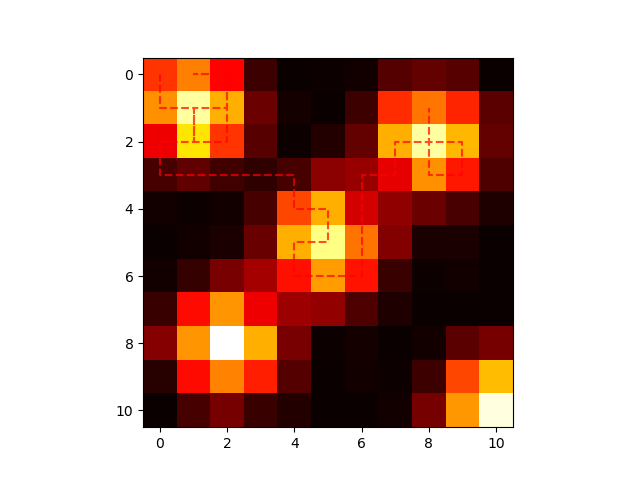
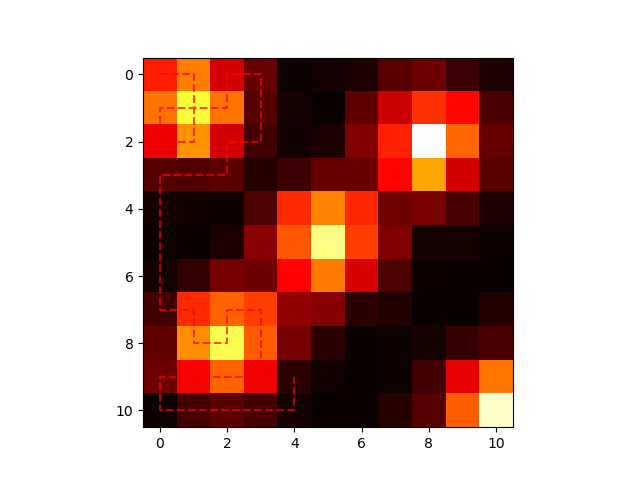
working multi-agent receding horizon vulcan pushed. need to work on making it faster

diff --git a/src/rh_ma_vulcan.py b/src/rh_ma_vulcan.py
@@ -95,7 +95,7 @@ class MultiAgentVulcan(object):
     def planner(self):
         while self.timer < self.mission_duration:
             print("Time = ", self.timer)
-            agent_actions = []
+            agent_actions = {}
             # Collect agents within communication range
             agent_bubbles = self.within_range_agents()
             # Command each agent to execute their adaptive search algorithm for one step
@@ -141,7 +141,7 @@ class MultiAgentVulcan(object):
                         deepcopy(agent.map),
                     )
 
-                agent_actions.append(best_action)
+                agent_actions[agent.id] = best_action
 
             # Once we have extracted the best actions for each agent, we execute them
             for agent in self.agents:
@@ -203,6 +203,8 @@ class MultiAgentVulcan(object):
             node.h = np.float64(0.0)
         else:
 
+            # TODO: Do we need to take into account the current observations of the agents?
+            # i.e the random variable corresponding to current timestep
             recursive_map_object = deepcopy(
                 agent_bubbles[0].map
             )  # Take any agent's map
@@ -283,9 +285,7 @@ class MultiAgentVulcan(object):
                     ),  # TODO: Should we be using theta_1 or theta_2 here?
                 )
             else:
-                locations_to_consider = [
-                    location_id for location_id in range(self.map.map_size)
-                ]
+                locations_to_consider = np.arange(self.map.map_size).tolist()
 
             # p(x_i | y_{0:k})
             current_phenomenon_probabilities = (
@@ -386,7 +386,7 @@ class MultiAgentVulcan(object):
                     agents_future_measurements[index].append(f_measurement[index])
             g_val = np.add(g_val, future_g_val)
 
-        return np.float64(0.0)
+        return g_val
 
     def multi_agent_search(
         self,
@@ -430,40 +430,69 @@ class MultiAgentVulcan(object):
 
                 if current.g > best_gain:
                     best_gain = current.g
-                    best_action = current.action_prefixes[target_agent.id][0]
+                    best_action_str = current.action_prefixes[target_agent.id][0]
+                    best_action_location = target_agent.map.extract_next_location(
+                        target_agent.current_location, best_action_str
+                    )
+                    best_action = Action(best_action_str, best_action_location)
                     self.update_min_costs(
                         current, best_gain
                     )  # TODO: Check the logic here again!
             else:
                 action_prefix_extensions = current.extract_action_prefix_extensions()
                 for action_prefixes in action_prefix_extensions:
-                    next_locations = {}
+                    prefix_paths = np.zeros(
+                        (len(agent_bubbles), len(action_prefixes[target_agent.id]) + 1),
+                        dtype=int,
+                    )
+                    current_locations = [
+                        current.agent_locations[agent.id] for agent in agent_bubbles
+                    ]
+                    prefix_paths[:, 0] = current_locations
+
                     # Validate whether the action prefix can be executed
                     invalid_action_prefix = False
-                    for agent_in_comm_range in agent_bubbles:
-                        next_pos = agent_in_comm_range.map.extract_next_location(
-                            current.agent_locations[agent_in_comm_range.id],
-                            action_prefixes[agent_in_comm_range.id][-1],
-                        )
-                        if not next_pos:
-                            invalid_action_prefix = True
-                            break
-
-                        next_locations[agent_in_comm_range.id] = next_pos
-                        if not agent_in_comm_range.map.valid_move(
-                            current.agent_locations[agent_in_comm_range.id], next_pos
+                    for agent_idx, agent_in_comm_range in enumerate(agent_bubbles):
+                        for action_idx, action in enumerate(
+                            action_prefixes[agent_in_comm_range.id]
                         ):
-                            invalid_action_prefix = True
+                            next_pos = agent_in_comm_range.map.extract_next_location(
+                                prefix_paths[agent_idx][action_idx],
+                                action,
+                            )
+
+                            if not next_pos or not agent_in_comm_range.map.valid_move(
+                                prefix_paths[agent_idx][action_idx],
+                                next_pos,
+                            ):
+                                invalid_action_prefix = True
+                                break
+
+                            prefix_paths[agent_idx][action_idx + 1] = next_pos
+
+                        if invalid_action_prefix:
                             break
 
                     """
                     If the action prefix is invalid or the next locations are not unique i.e imminent collision,
                     we skip this action prefix
                     """
-                    if invalid_action_prefix or len(next_locations.values()) != len(
-                        set(next_locations.values())
-                    ):
+
+                    for action_idx in range(len(action_prefixes[target_agent.id]) + 1):
+                        if prefix_paths[:, action_idx].size != len(
+                            np.unique(prefix_paths[:, action_idx])
+                        ):
+                            invalid_action_prefix = True
+                            break
+
+                    if invalid_action_prefix:
                         continue
+
+                    next_locations = {}
+                    for agent_idx, agent_in_comm_range in enumerate(agent_bubbles):
+                        next_locations[agent_in_comm_range.id] = prefix_paths[
+                            agent_idx, len(action_prefixes[target_agent.id])
+                        ]
 
                     child_node = self.construct_node(
                         current,
@@ -476,4 +505,4 @@ class MultiAgentVulcan(object):
 
                     open_set.put(child_node)
 
-        return best_gain, None
+        return best_gain, best_action

diff --git a/src/agent.py b/src/agent.py
@@ -26,6 +26,7 @@ class Agent(object):
         self.current_location = start_location
         self.mission_duration = mission_duration
         self.planning_horizon = planning_horizon
+        self.visited_locations = [start_location]
         self.mdp_handle = MarkovDecisionProcess(start_location, self.map)
 
     def adaptive_search(self):
@@ -190,4 +191,5 @@ class Agent(object):
         """
         _, action_location = action.action_type, action.location
         self.map.update_agent_location(self.current_location, action_location)
+        self.visited_locations.append(action_location)
         return action_location

diff --git a/test/test_rh_ma_vulcan.py b/test/test_rh_ma_vulcan.py
@@ -121,9 +121,8 @@ if __name__ == "__main__":
     for idx, agent in enumerate(vulcan_agents):
         print("Path for agent ", agent.id)
         vulcan_path = []
-        for observation in agent.mdp_handle.observations:
-            location = observation.location
-            vulcan_path.append(map.get_coordinate(location))
+        for v_location in agent.visited_locations:
+            vulcan_path.append(map.get_coordinate(v_location))
         print(vulcan_path)
         plt.plot(
             [x[1] for x in vulcan_path],

diff --git a/src/utils.py b/src/utils.py
@@ -44,10 +44,7 @@ def get_nearest_locations(
         location_coords[:, np.newaxis, :] - location_id_coords, axis=2
     )
     indices = np.any(distances <= radius, axis=1)
-    linear_locations = np.arange(map.map_size)
-    return list(
-        set(linear_locations[i] for i in range(len(linear_locations)) if indices[i])
-    )
+    return locations[indices.astype(np.bool_)].tolist()
 
 
 def generate_map(
